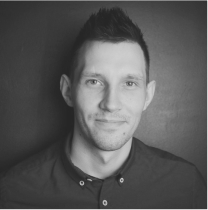
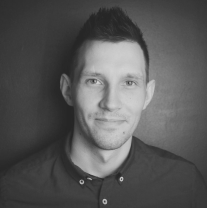
Адаптировал блок с командой под планшетные устройства

diff --git a/src/index.html b/src/index.html
@@ -211,6 +211,9 @@
             <blockquote class="team__comment employee-comment">
                 <div class="employee-comment__slider employee-slider">
                     <picture class="employee-slider__img">
+                        <source media="(min-width: 1366px)" srcset="images/team-desktop.jpg">
+                        <source media="(min-width: 768px)"
+                                srcset="images/team-tablet.jpg, images/team-desktop.jpg 2x">
                         <img src="images/team.jpg" alt="Фото сотрудника">
                     </picture>
                     <button class="employee-slider__button employee-slider__button--left">
@@ -227,11 +230,11 @@
                 <cite class="employee-comment__author">Серёжа Попов</cite>
                 <p class="employee-comment__position">Основатель питомника</p>
                 <p class="employee-comment__text">
-                    Наш питомник занимается разведением Мейн-Кунов на протяжении 15 лет.<br>
-                    Мы в ответе за каждого приобретенного вами питомца
+                    Наш питомник занимается разведением Мейн-Кунов на протяжении 15 лет.
+                    <br> Мы в ответе за каждого приобретенного вами питомца
                 </p>
                 <ul class="employee-comment__social-list social-list">
-                    <li class="social-list__item">
+                    <li class="social-list__item social-list__item--fb">
                         <a href="#">
                             <svg width="6" height="12" viewBox="0 0 6 12" fill="none" xmlns="http://www.w3.org/2000/svg">
                                 <path d="M1.09903 2.26821C1.09903 2.54804 1.09903 3.79704 1.09903 3.79704H0V5.66651H1.09903V11.2219H3.35667V5.66666H4.87165C4.87165 5.66666 5.01354 4.77027 5.08231 3.79015C4.88513 3.79015 3.36521 3.79015 3.36521 3.79015C3.36521 3.79015 3.36521 2.70256 3.36521 2.51192C3.36521 2.32088 3.61136 2.06389 3.85465 2.06389C4.09748 2.06389 4.61 2.06389 5.08469 2.06389C5.08469 1.80936 5.08469 0.929906 5.08469 0.117676C4.45099 0.117676 3.73004 0.117676 3.41225 0.117676C1.04322 0.117547 1.09903 1.98887 1.09903 2.26821Z"
@@ -239,7 +242,7 @@
                             </svg>
                         </a>
                     </li>
-                    <li class="social-list__item">
+                    <li class="social-list__item social-list__item--tw">
                         <a href="#">
                             <svg width="16" height="11" viewBox="0 0 16 11" fill="none" xmlns="http://www.w3.org/2000/svg">
                                 <path d="M13.3758 4.82625C14.223 4.75501 14.7977 4.36248 15.0189 3.82987C14.7133 4.0212 13.7646 4.2298 13.2406 4.03114C13.215 3.90568 13.1863 3.78651 13.1581 3.67892C12.7589 2.18493 11.392 0.981306 9.95978 1.12671C10.0757 1.07903 10.1932 1.03463 10.3104 0.994781C10.468 0.937234 11.393 0.78386 11.2473 0.451125C11.1245 0.158459 9.99446 0.672305 9.78168 0.739466C10.0626 0.631808 10.5271 0.446621 10.5769 0.117676C10.1465 0.177832 9.7241 0.385179 9.39768 0.686673C9.51552 0.55739 9.60492 0.399833 9.6239 0.230267C8.47614 0.977552 7.80567 2.48413 7.26308 3.94557C6.83703 3.52476 6.45941 3.19339 6.12065 3.00938C5.17031 2.48999 4.03402 1.94809 2.25031 1.27326C2.19556 1.87471 2.54218 2.67443 3.54095 3.20625C3.32456 3.17673 2.92884 3.24261 2.61235 3.31985C2.74124 4.00887 3.16217 4.57655 4.30172 4.85105C3.78094 4.88608 3.5118 5.00686 3.26788 5.26718C3.50507 5.74639 4.08386 6.31038 5.12503 6.19461C3.96746 6.70309 4.65304 7.64475 5.59496 7.50431C3.98811 9.1958 1.45474 9.07148 0 7.65672C3.79823 12.9314 12.0547 10.7762 13.2851 5.69563C14.207 5.70364 14.7489 5.37019 15.085 5.00257C14.5538 5.09443 13.784 4.9995 13.3758 4.82625Z"
@@ -247,7 +250,7 @@
                             </svg>
                         </a>
                     </li>
-                    <li class="social-list__item">
+                    <li class="social-list__item social-list__item--vk">
                         <a href="#">
                             <svg width="13" height="9" viewBox="0 0 13 9" fill="none" xmlns="http://www.w3.org/2000/svg">
                                 <path d="M12.8841 7.40894C12.8492 7.34464 12.633 6.82839 11.593 5.76731C10.5041 4.65621 10.6504 4.83663 11.9619 2.91543C12.7606 1.74538 13.08 1.03085 12.98 0.72539C12.8849 0.434218 12.2975 0.511031 12.2975 0.511031L10.3441 0.523535C10.3441 0.523535 10.1994 0.502099 10.0914 0.572659C9.98654 0.642326 9.9191 0.803096 9.9191 0.803096C9.9191 0.803096 9.60952 1.70876 9.19674 2.47867C8.32648 4.10334 7.97789 4.18908 7.8357 4.08816C7.50498 3.85325 7.58787 3.14319 7.58787 2.63944C7.58787 1.06479 7.80482 0.408317 7.16452 0.238615C6.95163 0.182346 6.79562 0.144833 6.25202 0.138581C5.55484 0.130542 4.96411 0.14126 4.63015 0.320786C4.40751 0.440471 4.23606 0.707527 4.34088 0.722711C4.47007 0.741467 4.7626 0.809348 4.91779 1.04157C5.1185 1.34078 5.11118 2.01423 5.11118 2.01423C5.11118 2.01423 5.22657 3.86754 4.84223 4.09798C4.57814 4.25607 4.21655 3.93364 3.44056 2.45902C3.04322 1.7043 2.74257 0.86919 2.74257 0.86919C2.74257 0.86919 2.68488 0.713779 2.58168 0.630715C2.45655 0.529787 2.28104 0.497633 2.28104 0.497633L0.423525 0.510137C0.423525 0.510137 0.144817 0.519069 0.0424345 0.652151C-0.0485722 0.770942 0.0351215 1.01567 0.0351215 1.01567C0.0351215 1.01567 1.4896 4.75535 3.13585 6.64082C4.6464 8.3691 6.3609 8.25566 6.3609 8.25566H7.13771C7.13771 8.25566 7.37254 8.22708 7.49198 8.08507C7.60249 7.95467 7.59843 7.70994 7.59843 7.70994C7.59843 7.70994 7.58299 6.56401 8.06728 6.3952C8.54425 6.22907 9.15692 7.50273 9.80616 7.99307C10.2969 8.36374 10.6699 8.28246 10.6699 8.28246L12.4063 8.25566C12.4063 8.25566 13.3148 8.19404 12.8841 7.40894Z"

diff --git a/src/css/style.scss b/src/css/style.scss
@@ -796,29 +796,85 @@ body {
   padding: 60px 0;
   text-align: center;
   background-color: $black;
+
+  @media (min-width: $tablet-width) {
+    padding: 85px 0 215px;
+  }
 }
 
 .team__title {
   margin: 0 0 30px;
+
+  @media (min-width: $tablet-width) {
+    margin-bottom: 20px;
+  }
 }
 
 .team__description {
   margin: 0 0 100px;
+
+  @media (min-width: $tablet-width) {
+    max-width: 510px;
+    margin: 0 auto 45px;
+  }
 }
 
 .employee-comment {
   margin: 0;
   background-color: $lightBlack;
   padding: 2px 11px 16px;
+  position: relative;
+
+  @media (min-width: $tablet-width) {
+    max-width: 600px;
+    margin: 0 auto;
+    padding: 70px 95px 75px 106px;
+    box-sizing: border-box;
+    text-align: left;
+
+    br {
+      content: ' ';
+    }
+
+    br::after {
+      content: ' ';
+    }
+
+    &::before {
+      content: "";
+
+      position: absolute;
+      top: -23px;
+      left: -25px;
+
+      width: 109%;
+      height: 113%;
+      border: 1px solid rgba(160, 123, 80, 0.43);
+      box-sizing: border-box;
+    }
+  }
+}
+
+
+.employee-slider {
+  position: relative;
+  width: 174px;
+
+  @media (min-width: $tablet-width) {
+    width: 290px;
+  }
 }
 
 .employee-comment__slider {
   margin: -66px auto 25px;
-}
 
-.employee-slider {
-  position: relative;
-  max-width: 174px;
+  @media (min-width: $tablet-width) {
+    margin: 0;
+
+    position: absolute;
+    right: -8px;
+    bottom: -119px;
+  }
 }
 
 .employee-slider__img {
@@ -836,9 +892,15 @@ body {
   &--left {
     @extend .pets-slider__button--left
   }
+
+  @media (min-width: $tablet-width) {
+    top: auto;
+    bottom: 0;
+  }
 }
 
 .employee-comment__author {
+  display: inline-block;
   margin: 0 0 10px;
 
   font-weight: 500;
@@ -846,6 +908,10 @@ body {
   line-height: normal;
   color: $lightBrown;
   font-style: normal;
+
+  @media (min-width: $tablet-width) {
+    font-size: 24px;
+  }
 }
 
 .employee-comment__position {
@@ -853,12 +919,43 @@ body {
 
   font-weight: normal;
   color: $lightBrown;
+
+  @media (min-width: $tablet-width) {
+    font-size: 16px;
+  }
 }
 
 .employee-comment__text {
   margin: 0 0 25px;
+  opacity: 0.72;
+
+  @media (min-width: $tablet-width) {
+    font-size: 16px;
+  }
 }
 
 .employee-comment__social-list {
   justify-content: center;
+  align-items: center;
+
+  @media (min-width: $tablet-width) {
+    justify-content: flex-start;
+
+    .social-list__item {
+      &--fb svg {
+        width: 8px;
+        height: auto;
+      }
+
+      &--tw svg {
+        width: 20px;
+        height: auto;
+      }
+
+      &--vk svg {
+        width: 21px;
+        height: auto;
+      }
+    }
+  }
 }

diff --git a/index.html b/index.html
@@ -3,7 +3,7 @@
 <head>
     <meta charset="UTF-8">
     <title>Title</title>
-    <meta http-equiv="refresh" content="0; URL=/dist/index.html" />
+    <meta http-equiv="refresh" content="0; URL=./dist/index.html" />
 </head>
 <body>
 
